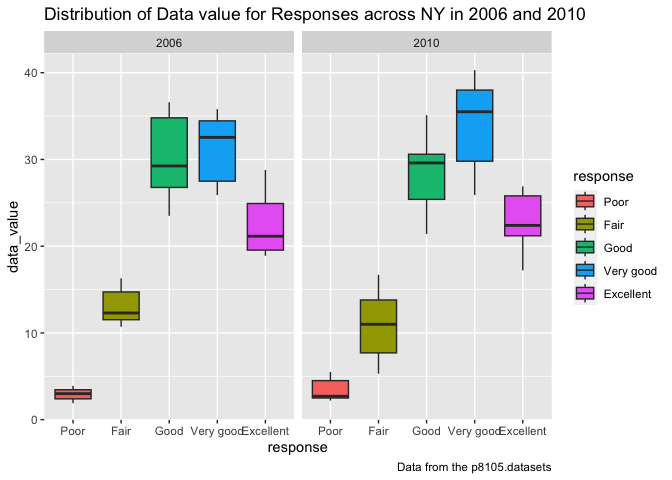
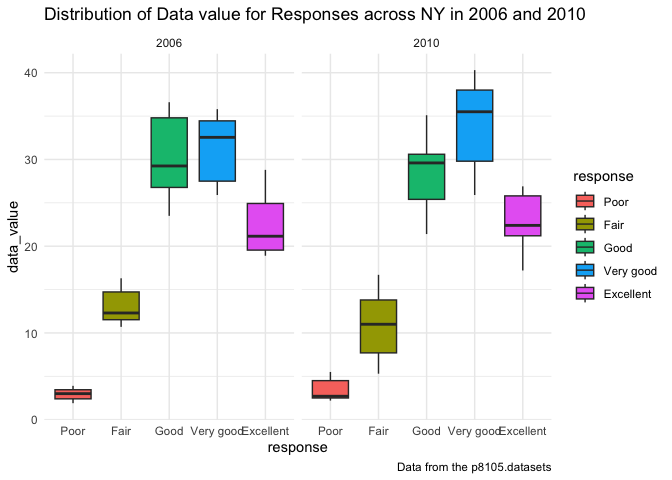
some commits on graph

diff --git a/p8105_hw3_xw2962.md b/p8105_hw3_xw2962.md
@@ -331,7 +331,8 @@ value over time within a state.**
   )+
   viridis::scale_color_viridis(
       name = "State",
-      discrete=TRUE)
+      discrete=TRUE) +
+  theme_minimal()
 ```
 
 ![](p8105_hw3_xw2962_files/figure-gfm/unnamed-chunk-9-1.png)<!-- -->
@@ -372,7 +373,8 @@ distribution_plot= distribution_df |>
   labs(
     title = "Distribution of Data value for Responses across NY in 2006 and 2010",
     caption = "Data from the p8105.datasets"
-  )
+  )+
+  theme_minimal()
 distribution_plot
 ```
 
@@ -525,7 +527,8 @@ sex_edu_age_df  = merged_demo_accel_data|>
 sex_edu_age_plot = merged_demo_accel_data|>
   ggplot(aes(x = age, fill = sex))+
   geom_density(alpha = .4)+
-  facet_grid(. ~ education)
+  facet_grid(. ~ education) +
+  theme_minimal()
 sex_edu_age_plot
 ```
 
@@ -556,7 +559,8 @@ aggregated_age_plot = acc_agg_df|>
   ggplot(aes(x = age, y = aggregate_move, color = sex))+
   geom_point(alpha = .5)+
   geom_smooth()+
-  facet_grid(. ~ education)
+  facet_grid(. ~ education)+
+  theme_minimal()
 aggregated_age_plot
 ```
 
@@ -591,9 +595,12 @@ group_24_df = merged_demo_accel_data|>
   )
 
 group_24_plot = group_24_df|>
-  ggplot(aes(x = time, y = mean, color = sex))+
-  geom_line()+
-  facet_grid(. ~ education)
+  ggplot(aes(x = time, y = mean,color = sex))+
+  geom_point(alpha = .2)+
+  geom_smooth(se=FALSE)+
+  labs(x="Minute of the day",y="Mean Activity Value",title="24-hour Activity Time Courses for each Education Level") +
+  facet_grid(. ~ education) +
+  theme_minimal()
 group_24_plot
 ```
 
@@ -608,9 +615,9 @@ with min, substituting each column name with “mean\_”. Next, we used
 pivot longer functions to switch from wide to longer version of the
 dataframe. Here, we also used mutate function to extract the time as a
 numeric value. We set time as x variable and mean as y variable and sex
-as color in aesthetics and used geom_line for plotting. Finally, we
-created seperate panels for different education levels using facet_grid
-function.
+as color in aesthetics and used geom_point as well as geom_smooth for
+plotting. Finally, we added axis labels and created seperate panels for
+different education levels using facet_grid function.
 
 For people in the group of high school equivalent and more than high
 school, average movement for female is higher than average movement for
